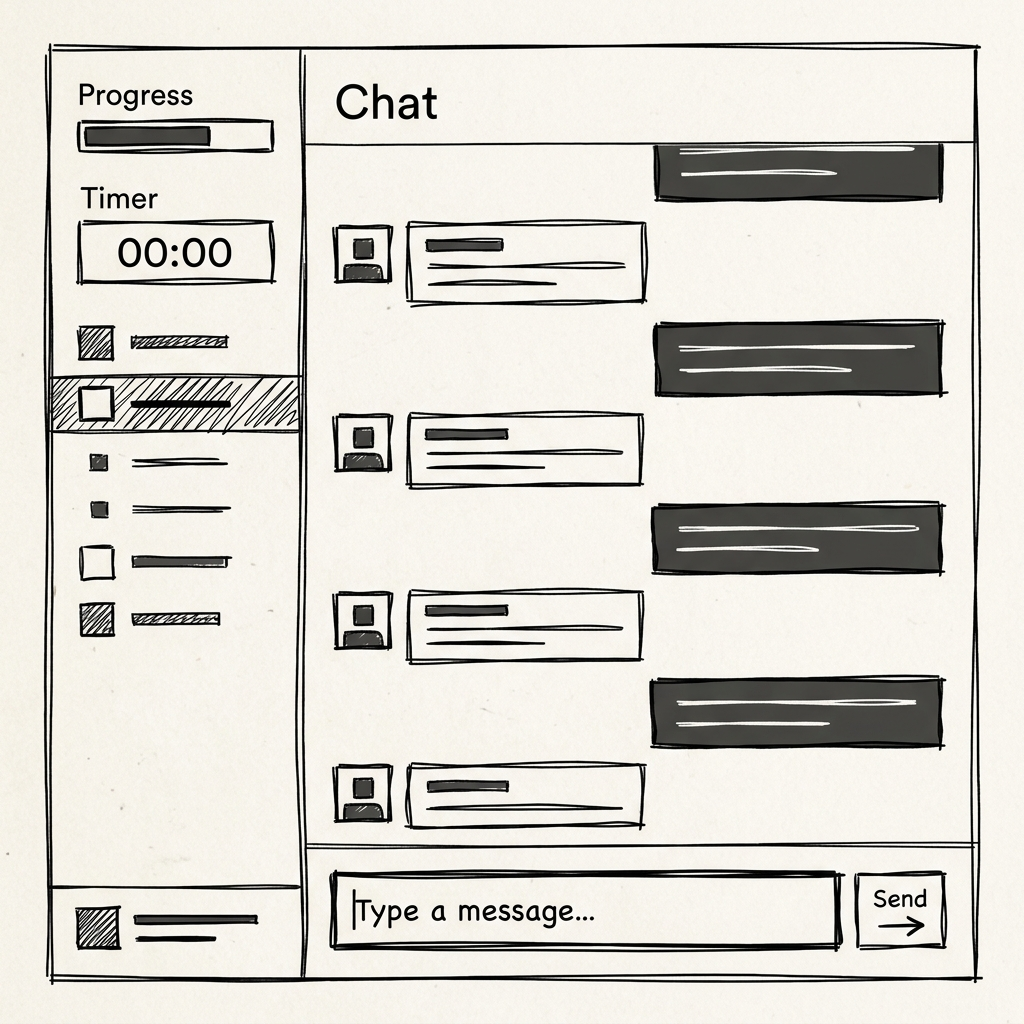
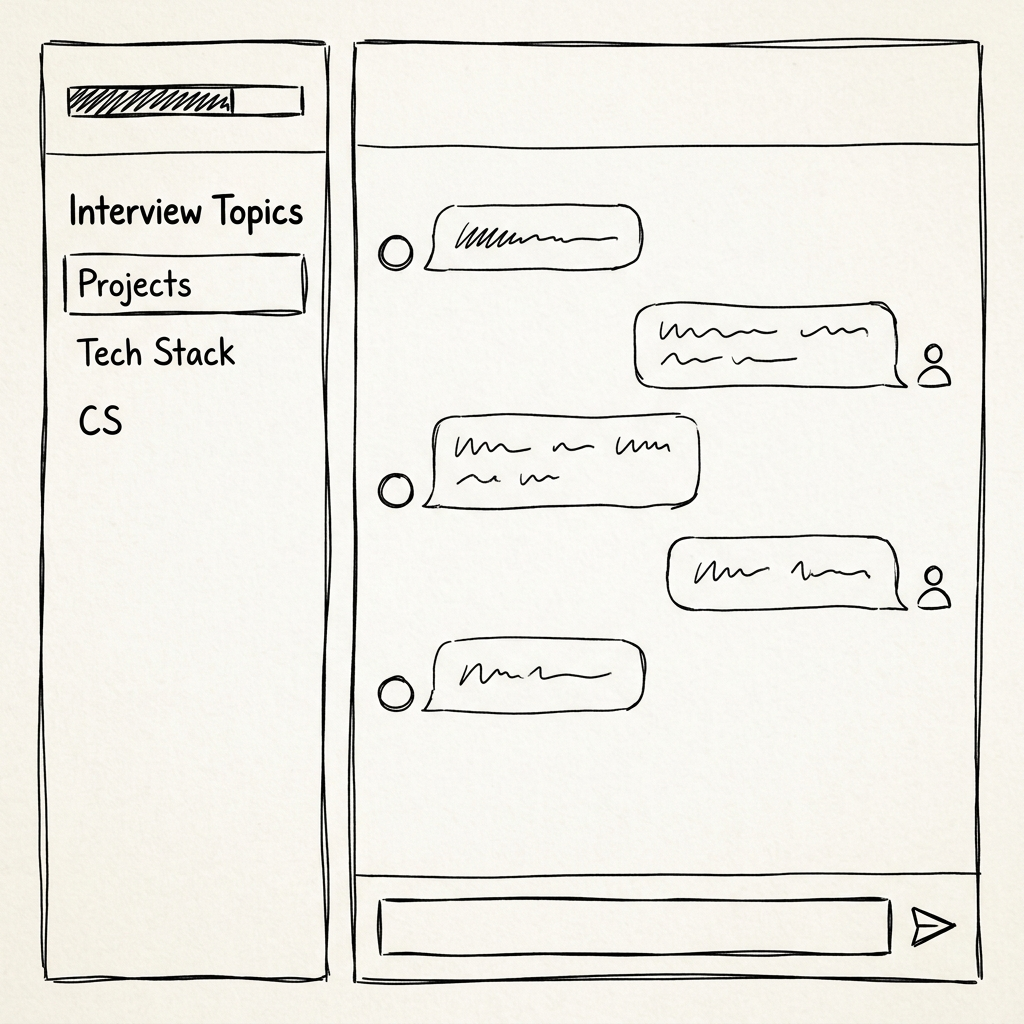
docs: Add topic navigator and remove timer from specs

Changed region(s): [[0.0312, 0.0312, 0.9688, 0.9688]]

diff --git a/storyboard.md b/storyboard.md
@@ -33,7 +33,9 @@
 * **목적:** 본질에 집중할 수 있는 깔끔한 채팅 인터페이스
 * **UI 구성:**
   * 이전 화면의 파일 업로더나 요약 정보 등은 모두 사라짐.
-  * **사이드바 (보조 정보):** 현재 질문 진행도 (예: 2/5 진행 완료) 및 답변 타이머.
+  * **사이드바 (보조 정보):** 
+    * 현재 질문 진행도 (예: 2/5 진행 완료)
+    * **면접 주제 네비게이터:** 현재 어떤 카테고리(예: 프로젝트 경험, 기술 스택 점검 등)로 면접이 진행 중인지 리스트 형태로 시각화
   * **중앙 메인 화면:** 오직 대화에만 집중할 수 있는 챗봇 UI (`st.chat_message`).
   * **하단 입력창:** 답변을 입력하는 텍스트 폼 (`st.chat_input`).
 * **인터랙션:**
@@ -46,7 +48,7 @@
 * **목적:** 면접 결과 분석 및 피드백 시각화
 * **UI 구성:**
   * **화면 전환 효과:** 팡파르 애니메이션 (`st.balloons()`) 적용.
-  * **상단 요약 (Metrics):** 종합 점수, 최고 강점, 평균 답변 시간 등을 숫자로 강조.
+  * **상단 요약 (Metrics):** 종합 점수, 최고 강점 등을 숫자로 강조.
   * **중앙 차트:** 6대 역량(CS, 프레임워크, 논리력 등)을 육각형 레이더 차트로 시각화.
   * **하단 피드백 리스트:** 각 질문별로 [내 답변]과 [AI 모범 답안]을 아코디언(Expander) 형태로 비교.
   * **최하단 버튼:** "🔄 홈으로 돌아가기" (클릭 시 세션 초기화 후 Page 1로 이동)

diff --git a/proposal.md b/proposal.md
@@ -28,6 +28,7 @@
 * (확장 시) 기획자, 마케터 등 직무 면접이 필요한 모든 구직자
 
 ## 5. UI/UX 전략 (Streamlit)
-* **화면 분할 구조:** 좌측은 면접 설정 및 실시간 진행률(Dashboard), 우측 메인은 대화창(Chat)으로 구성하여 몰입감 극대화.
+* **화면 분할 구조:** 좌측은 실시간 진행률과 주제 네비게이터(Dashboard), 우측 메인은 대화창(Chat)으로 구성하여 몰입감 극대화.
 * **상태 시각화:** 에이전트가 답변을 분석할 때 로딩 스피너(`st.spinner`)를 사용하여 AI가 '고민하고 평가하는' 느낌을 전달.
+* **주제 네비게이터:** 현재 면접이 어떤 카테고리(예: 프로젝트 검증, 기술 스택, CS 지식)로 진행 중인지 사이드바에 시각적으로 표시.
 * **결과 화면의 타격감:** 면접 종료 즉시 풍선 애니메이션과 함께 육각형 레이더 차트 및 수치화된 점수(Metric UI)를 노출하여 프로페셔널한 느낌 부여.